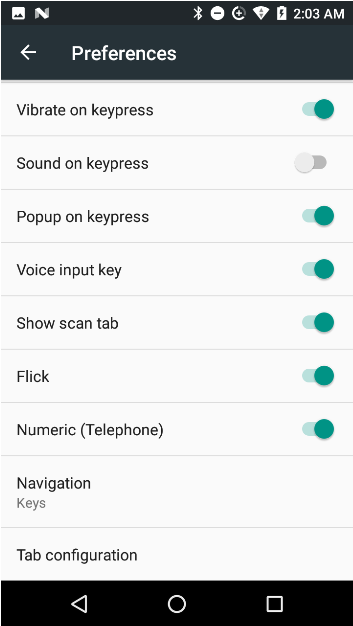
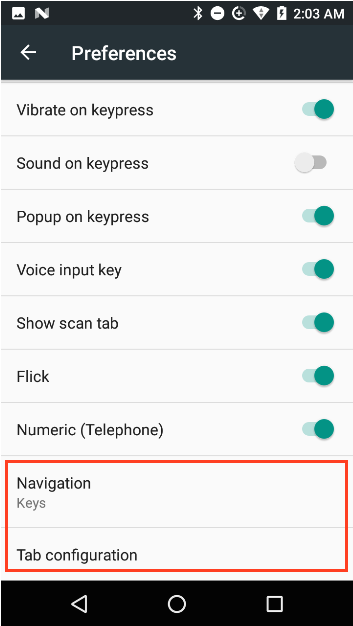
[TUT-19264] EKB 1.6 updated. READY FOR VALIDATION

Changed region(s): [[0.0, 0.7284, 0.9972, 0.9105], [0.0312, 0.9105, 0.966, 0.9409]]

diff --git a/enterprise-keyboard/1-6/guide/settings/index.html b/enterprise-keyboard/1-6/guide/settings/index.html
@@ -331,7 +331,7 @@ Selected languages will appear in the language  menu in the Enterprise Keyboard:
 <ul>
 <li><p><b><u>Tab configuration</u></b> allows a user or administrator to enable or disable the numeric, alphanumeric, symbol and/or scan key-layout tab(s), hiding them from view and preventing display of the corresponding layout. <!-- **EKB will not permit all four tabs to be disabled at the same time**. --></p></li>
 
-<li><p><b><u>Select prefer tab</u></b> causes that tab to appear whenever EKB is invoked. This option is controlled from within the Tab configuration panel (shown below). </p></li>
+<li><p><b><u>Select prefer tab</u></b> causes the selected tab to appear whenever EKB is invoked. This option is controlled from within the Tab configuration panel (shown below). </p></li>
 </ul>
 
 <p><img alt="" style="height:350px" src="ekb1.6_tab_config.png">
@@ -346,7 +346,7 @@ Selected languages will appear in the language  menu in the Enterprise Keyboard:
 
 <li>On GMS devices, if voice is enabled and the next-word suggestions feature is disabled, a blank suggestion bar will appear over the tab bar when words are being suggested.</li>
 
-<li>If the <code>TYPE_TEXT_FLAG_NO_SUGGESTIONS</code> input type is enabled, neither the tab bar nor the suggestion bar will appear. Learn <a href="https://developer.android.com/reference/android/text/InputType.html">more about Android input types</a>.</li>
+<li>If the <code>TYPE_TEXT_FLAG_NO_SUGGESTIONS</code> input type is enabled, neither the tab bar nor the suggestion bar will appear. <a href="https://developer.android.com/reference/android/text/InputType.html">More about Android input types</a>.</li>
 
 <li>Enabling the Symbol tab disables remapping of the Numeric P3 key.</li>
 
@@ -366,17 +366,17 @@ Selected languages will appear in the language  menu in the Enterprise Keyboard:
 
 <h5 id="setpreferencesasdesired-1" class="anchor"><a class="heading-anchor" href="#setpreferencesasdesired-1"><span></span></a>Set preferences as desired:</h5>
 
-<p><b>Block offensive words</b> prevents display of spelling suggestions that might be deemed offensive or insensitive as determined by external standards of decency.</p>
+<p><b><u>Block offensive words</u></b> prevents display of spelling suggestions that might be deemed offensive or insensitive as determined by external standards of decency.</p>
 
-<p><b>Auto-correction</b> automatically replaces misspelled words with those found in the Add-on and Personal dictionaries (see below). Replacements are executed by pressing the spacebar. </p>
+<p><b><u>Auto-correction</u></b> automatically replaces misspelled words with those found in the Add-on and Personal dictionaries (see below). Replacements are executed by pressing the spacebar. </p>
 
-<p><b>Show correction suggestions</b> displays suggested words while typing but does not replace them when the spacebar is pressed unless Auto-correction is also enabled.</p>
+<p><b><u>Show correction suggestions</u></b> displays suggested words while typing but does not replace them when the spacebar is pressed unless Auto-correction is also enabled.</p>
 
-<p><b>Personalized suggestions</b> learns from communications and typed data to improve suggestions.</p>
+<p><b><u>Personalized suggestions</u></b> learns from communications and typed data to improve suggestions.</p>
 
-<p><b>Suggest Contact names</b> automatically displays contacts from the contact list when typing names. </p>
+<p><b><u>Suggest Contact names</u></b> automatically displays contacts from the contact list when typing names. </p>
 
-<p><b>Next-word suggestions</b> looks at the word prior to the one being typed and displays words that might come next. This is sometimes referred to as "predictive text."</p>
+<p><b><u>Next-word suggestions</u></b> looks at the word prior to the one being typed and displays words that might come next. This is sometimes referred to as "predictive text."</p>
 
 <hr>
 

diff --git a/enterprise-keyboard/1-6/guide/about/index.html b/enterprise-keyboard/1-6/guide/about/index.html
@@ -261,13 +261,20 @@
 
 <h3 id="newinv16" class="anchor"><a class="heading-anchor" href="#newinv16"><span></span></a>New in v1.6</h3>
 
-<p>A user (or administrator) can now enable or disable any key-layout tab (numeric, alphanumeric, symbol, scan). For Example, disabling the symbol tab hides the symbol-key layout tab and prevents navigation to that layout.</p>
+<p>New settings in the <a href="../settings/#preferences">Preferences panel</a>: </p>
 
-<p>At least one tab must be enabled at all times. EKB will not permit all tabs to he disabled. (IS THIS CORRECT?)</p>
+<ul>
+<li><p><b><u>Navigation</u></b> controls the means of navigating between keyboard layouts. "<b>Tabs</b>" mode permits switching layouts by swiping across a layout (to bring up the adjacent one) or tapping directly on the desired layout tab. The tab bar will be visible at all times except when next-word suggestions (if enabled) are being displayed. "<b>Keys</b>" mode permits keys to be used for switching layouts. Such keys are typically in the lower-left corner of the layout.</p></li>
 
-<p>One tab can be selected as the default, to appear when EKB is launched (default tab must be enabled).</p>
+<li><p><b><u>Tab configuration</u></b> allows a user or administrator to enable or disable the numeric, alphanumeric, symbol and/or scan key-layout tab(s), hiding them from view and preventing display of the corresponding layout.</p></li>
 
-<p>See the <a href="../../download">EKB 1.6 download page</a> for a list of supported devices. </p>
+<li><p><b><u>Select prefer tab</u></b> causes the selected tab to appear whenever EKB is invoked. </p></li>
+</ul>
+
+<p><img alt="" style="height:350px" src="../settings/ekb1.6_prefs.png">
+<br></p>
+
+<p>See the <a href="../../download">EKB 1.6 downlaod page</a> for supported devices.  </p>
 
 <hr>
 
